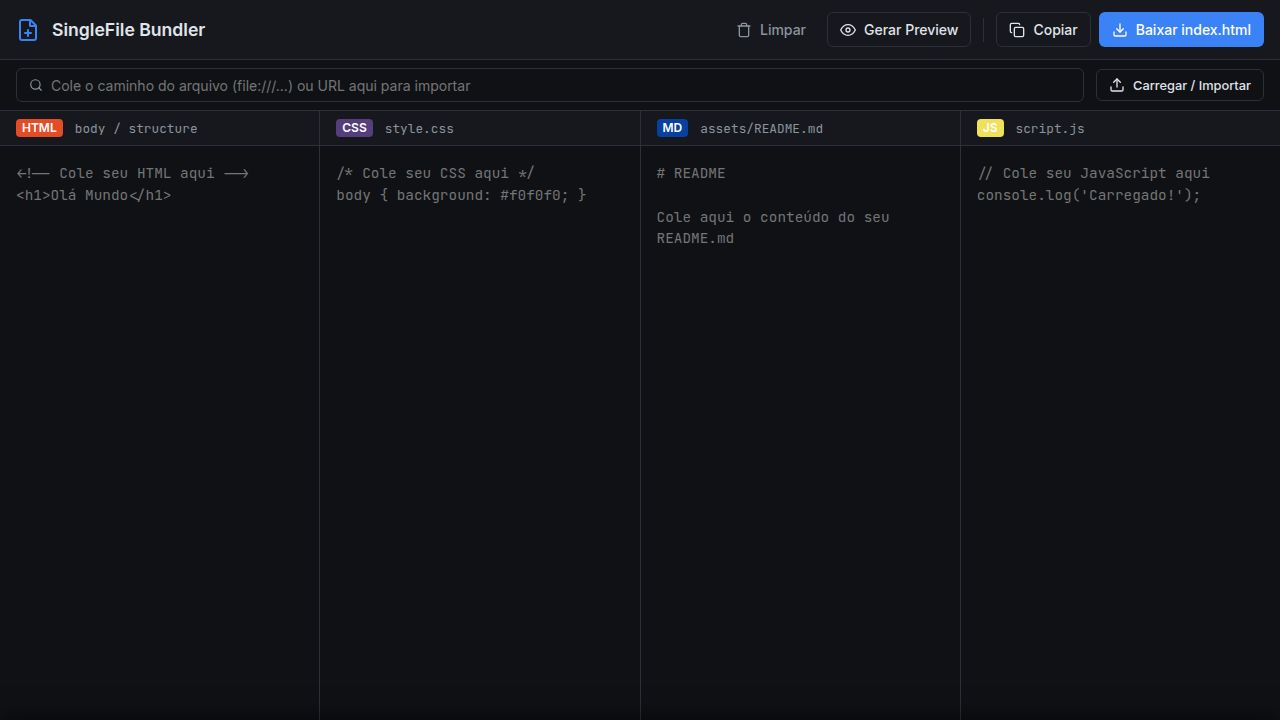
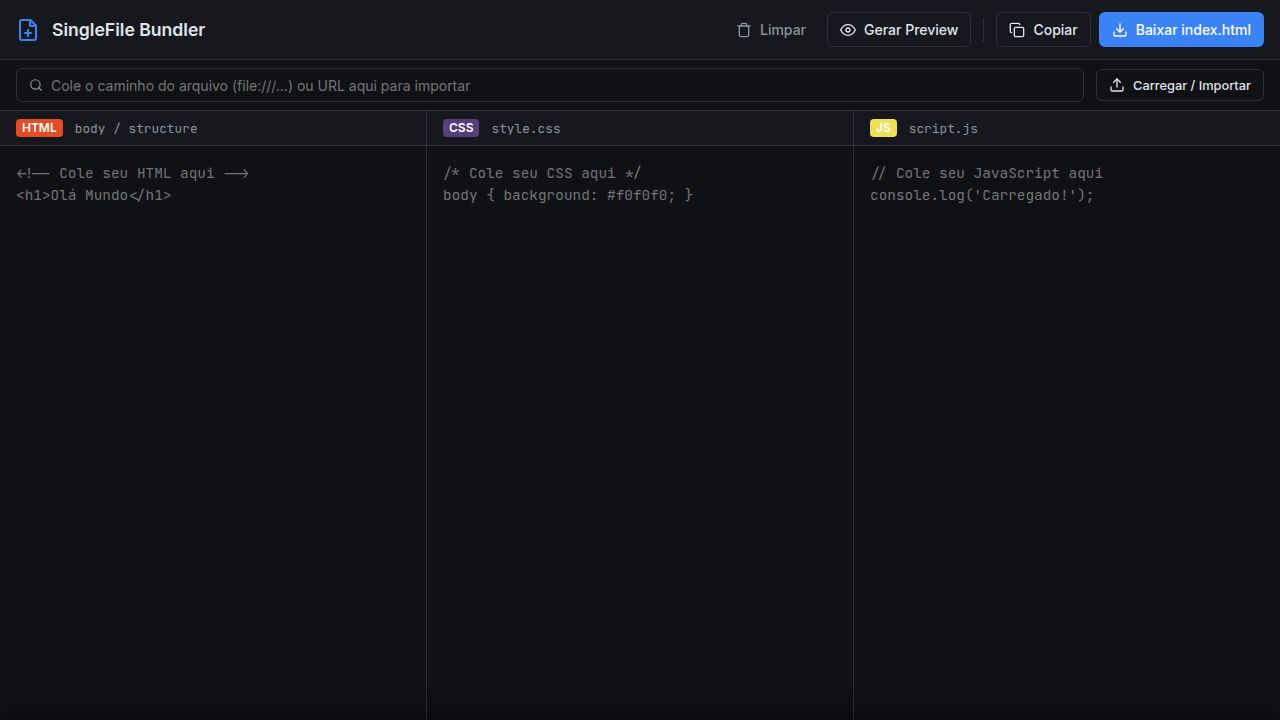
Remove the README markdown editor pane
Removes the 'assets/README.md' editor pane and related local storage keys and event listeners from the client-side application.

Replit-Commit-Author: Agent
Replit-Commit-Session-Id: 6234578f-a409-45ad-8be6-fecdc9eff90c
Replit-Commit-Checkpoint-Type: full_checkpoint
Replit-Commit-Event-Id: 7b98d255-a790-453c-b8d7-cd1694dc4b56
Replit-Commit-Screenshot-Url: https://storage.googleapis.com/screenshot-production-us-central1/712092a9-4d5b-4515-8640-ed99797b1510/6234578f-a409-45ad-8be6-fecdc9eff90c/wyTtLNI
Replit-Helium-Checkpoint-Created: true

Changed region(s): [[0.25, 0.1528, 0.625, 0.3361], [0.6562, 0.1528, 0.9375, 0.275], [0.5938, 0.275, 0.6875, 0.3056]]

diff --git a/client/script.js b/client/script.js
@@ -2,7 +2,6 @@ document.addEventListener('DOMContentLoaded', () => {
   // --- Elementos ---
   const inputHtml = document.getElementById('input-html');
   const inputCss = document.getElementById('input-css');
-  const inputReadme = document.getElementById('input-readme');
   const inputJs = document.getElementById('input-js');
   
   const btnPreview = document.getElementById('btn-preview');
@@ -24,7 +23,6 @@ document.addEventListener('DOMContentLoaded', () => {
   const STORAGE_KEYS = {
     HTML: 'sb_html_content',
     CSS: 'sb_css_content',
-    README: 'sb_readme_content',
     JS: 'sb_js_content'
   };
 
@@ -44,7 +42,6 @@ document.addEventListener('DOMContentLoaded', () => {
   function loadFromStorage() {
     inputHtml.value = localStorage.getItem(STORAGE_KEYS.HTML) || '';
     inputCss.value = localStorage.getItem(STORAGE_KEYS.CSS) || '';
-    inputReadme.value = localStorage.getItem(STORAGE_KEYS.README) || '';
     inputJs.value = localStorage.getItem(STORAGE_KEYS.JS) || '';
   }
 
@@ -52,7 +49,6 @@ document.addEventListener('DOMContentLoaded', () => {
   function saveToStorage() {
     localStorage.setItem(STORAGE_KEYS.HTML, inputHtml.value);
     localStorage.setItem(STORAGE_KEYS.CSS, inputCss.value);
-    localStorage.setItem(STORAGE_KEYS.README, inputReadme.value);
     localStorage.setItem(STORAGE_KEYS.JS, inputJs.value);
   }
 
@@ -213,7 +209,7 @@ ${scriptTag}
   }
 
   // Auto-save ao digitar
-  [inputHtml, inputCss, inputReadme, inputJs].forEach(input => {
+  [inputHtml, inputCss, inputJs].forEach(input => {
     input.addEventListener('input', saveToStorage);
   });
 
@@ -289,7 +285,6 @@ ${scriptTag}
     if (confirm('Tem certeza que deseja limpar tudo?')) {
       inputHtml.value = '';
       inputCss.value = '';
-      inputReadme.value = '';
       inputJs.value = '';
       saveToStorage();
       previewSection.classList.add('hidden');

diff --git a/client/style.css b/client/style.css
@@ -214,7 +214,7 @@ body {
 .editor-grid {
   flex: 1;
   display: grid;
-  grid-template-columns: repeat(4, 1fr);
+  grid-template-columns: repeat(3, 1fr);
   gap: 1px;
   background-color: var(--border-color); 
   overflow: hidden;
@@ -362,8 +362,8 @@ iframe {
 /* Tablet and below */
 @media (max-width: 1024px) {
   .editor-grid {
-    grid-template-columns: 1fr 1fr;
-    grid-template-rows: 1fr 1fr;
+    grid-template-columns: 1fr;
+    grid-template-rows: 1fr 1fr 1fr;
     overflow-y: auto; /* Allow grid to scroll if content is tall */
   }
   

diff --git a/client/index.html b/client/index.html
@@ -71,14 +71,6 @@
 
     <div class="editor-pane">
       <div class="pane-header">
-        <span class="lang-tag md">MD</span>
-        <span class="file-name">assets/README.md</span>
-      </div>
-      <textarea id="input-readme" placeholder="# README&#10;&#10;Cole aqui o conteúdo do seu README.md" spellcheck="false"></textarea>
-    </div>
-
-    <div class="editor-pane">
-      <div class="pane-header">
         <span class="lang-tag js">JS</span>
         <span class="file-name">script.js</span>
       </div>
